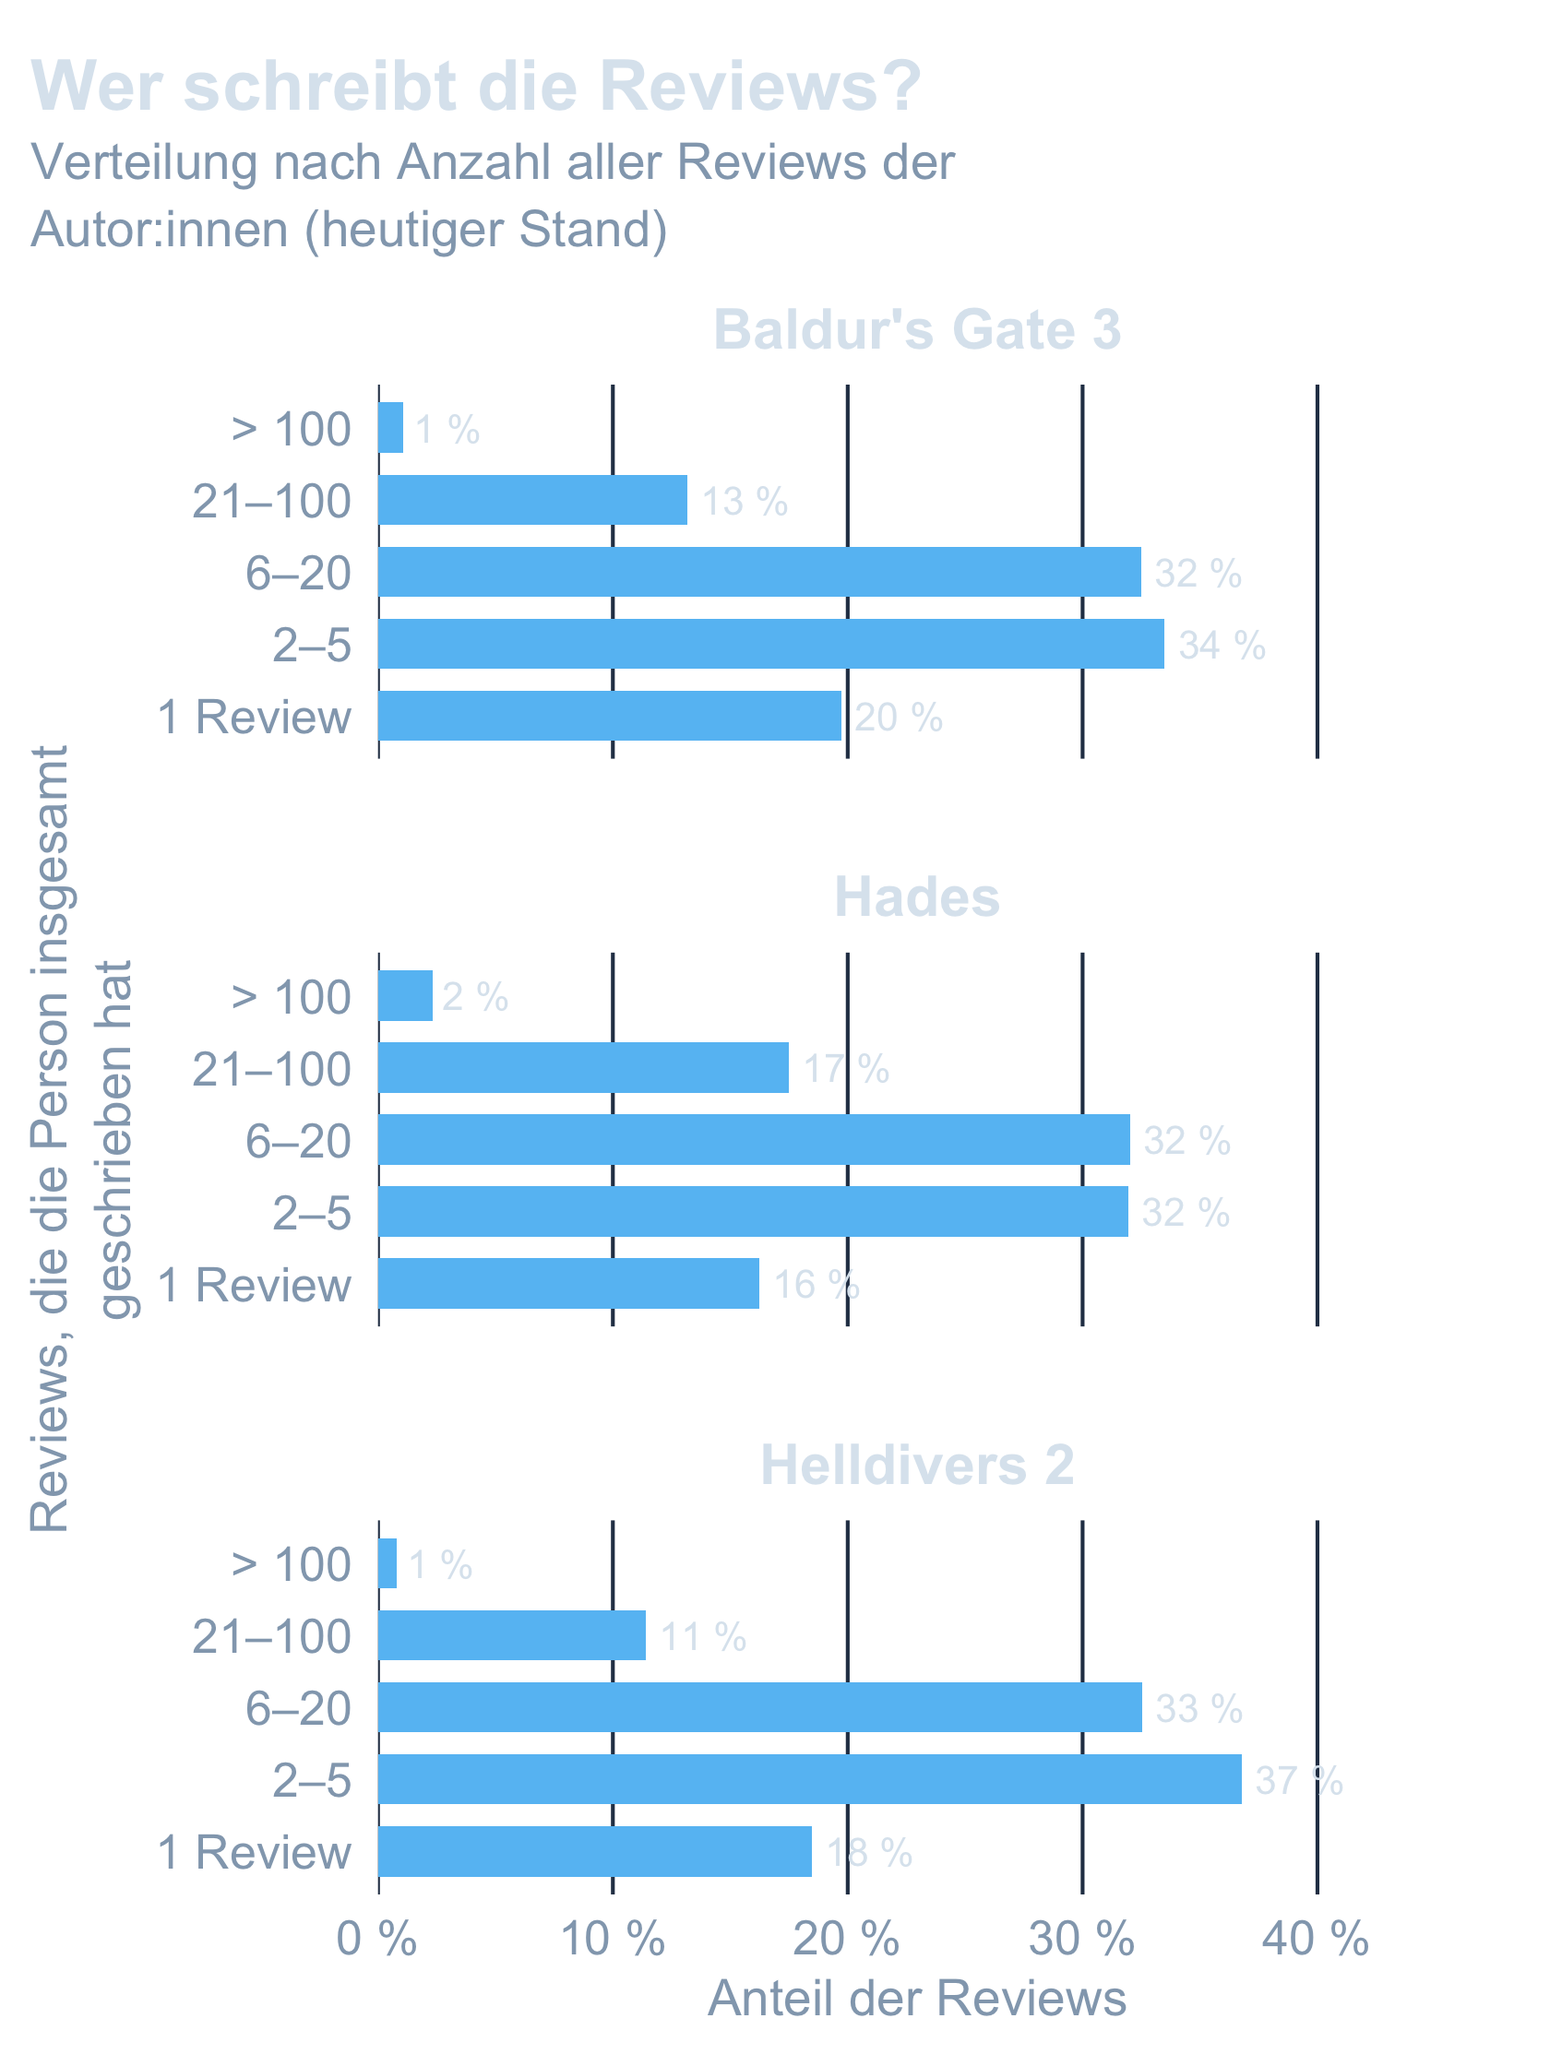
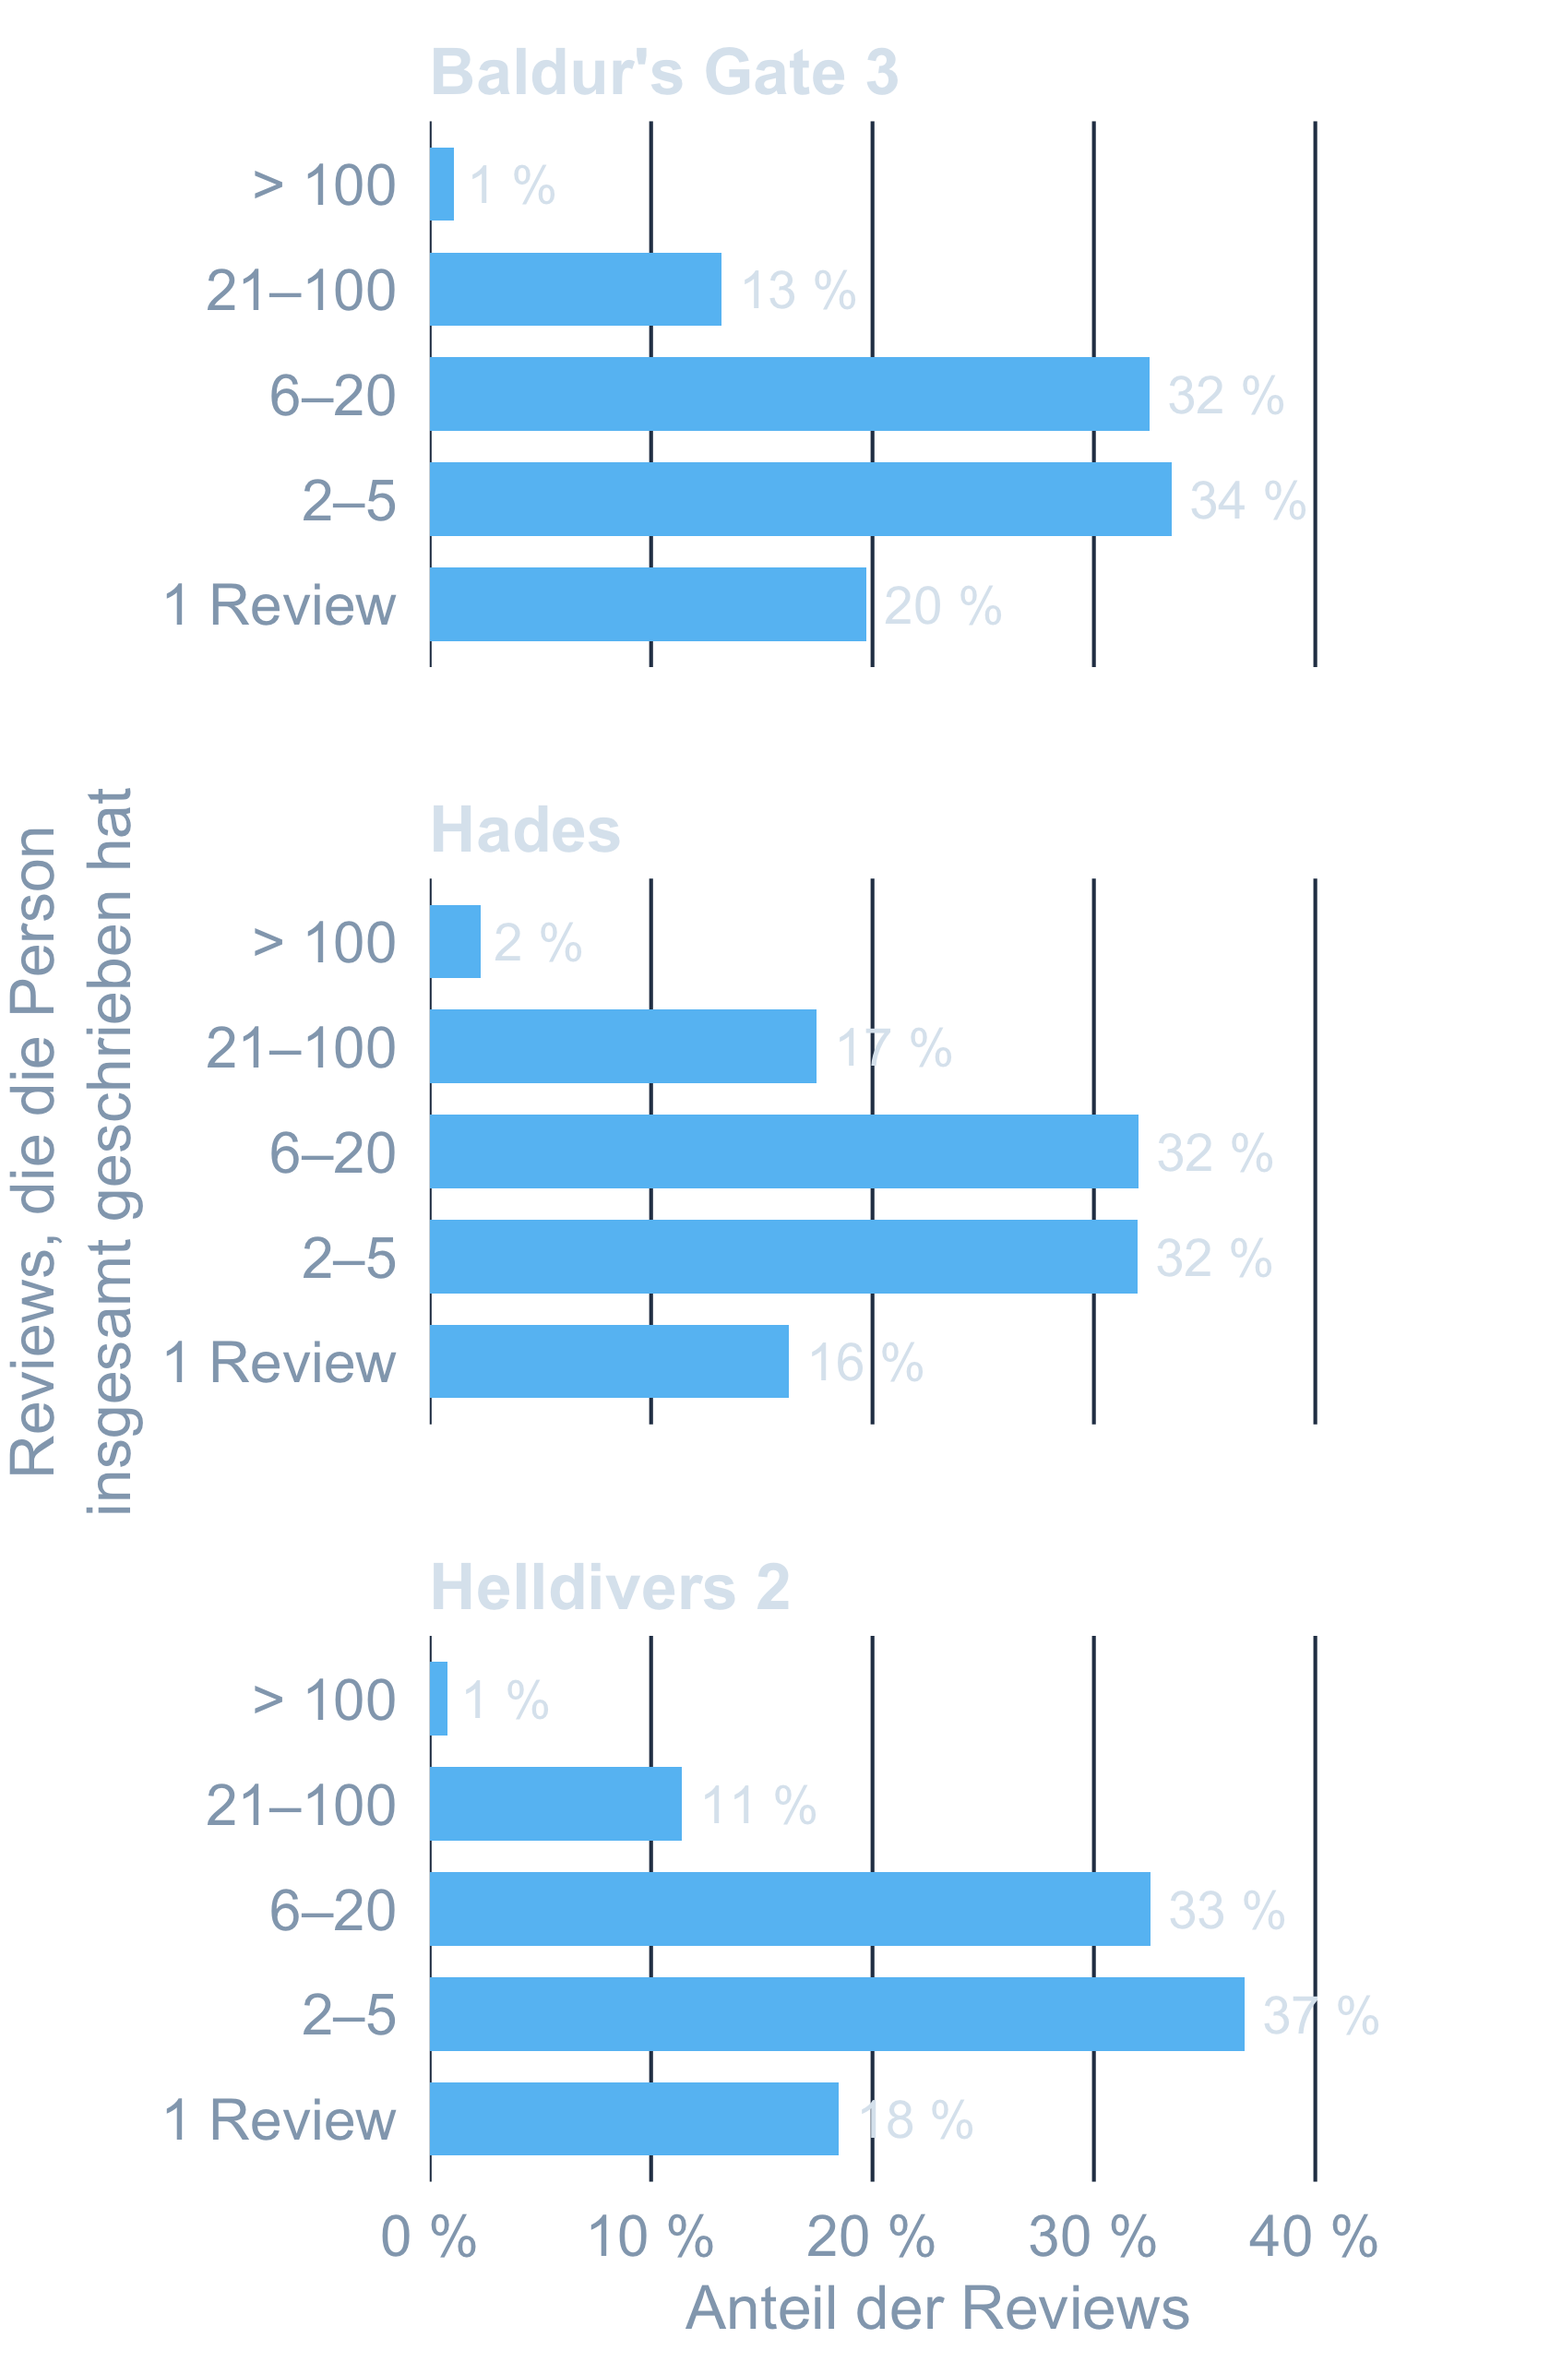
Handy: lineares Layout statt Scrollytelling, lesbare Grafiken
- js/mobile-linear.html setzt unter 768 px jede Grafik vor ihren ersten Absatz;
  Text als Fließtext, keine fest stehende Grafik und keine Leerräume mehr
- Handy-Grafiken: Titel/Untertitel/Quelle als HTML, Schrift 14 statt 11 pt,
  eigene Layouts für Kaufweg, Sprachen, Simulation und Borderlands-Legende
- Datentabelle am Handy als Block pro Spiel
- Desktop-Grafiken unverändert (pixelgleich geprüft)

diff --git a/styles/steam.scss b/styles/steam.scss
@@ -265,79 +265,79 @@ main#quarto-document-content { margin-bottom: 0; }
 a:focus-visible { outline: 2px solid $srb-accent; outline-offset: 2px; }
 
 // ---------- Handy & kleine Tablets (< 768 px) ----------
-// Closeread legt dort Text über die Grafik. Stattdessen: Grafik fest in den
-// oberen 58 % des Bildschirms, Text scrollt darunter und gleitet hinter die Grafik.
-//
-// Closeread aktiviert einen Schritt, wenn dessen .trigger die Bildschirmmitte
-// erreicht. Mit 38svh Abstand oberhalb der Karte (und 0 unterhalb) wird eine
-// Karte aktiv, sobald ihre Oberkante bei ~88 % ist – die vorige Karte ist dann
-// schon hinter der Grafik verschwunden.
-$srb-mobile-graphic: 58dvh;
-$srb-mobile-gutter:  16px;   // ein Seitenrand für Karten, Überschriften und Fließtext
+// Kein Scrollytelling: js/mobile-linear.html setzt jede Grafik vor ihren ersten
+// Absatz und markiert das mit html.srb-linear. Grafik und Text stehen dann
+// untereinander in voller Breite, gelesen wird im eigenen Tempo.
+// Ohne JavaScript bleibt Closereads eigene Handy-Darstellung (Text über der Grafik).
+$srb-mobile-gutter: 16px;   // ein Seitenrand für Text, Überschriften und Grafiken
+
+html.srb-linear .cr-section {
+  display: block;                   // statt Closereads Raster aus Text- und Grafikspalte
+  .sticky-col { display: none; }    // leer: alle Grafiken sind umgezogen
+
+  .narrative-col {
+    max-width: none;
+    min-width: 0;
+    margin: 0;
+    padding: 0 $srb-mobile-gutter;
+    background: transparent;
+    font-size: 1.0625rem;
+  }
+  // Closereads Abstände fürs Scrollen (45svh je Karte) und die Karten-Optik entfallen
+  .narrative-col .trigger { padding: 0; }
+  .narrative-col .trigger .narrative {
+    padding: 0;
+    margin: 0 0 1.1em;
+    background: none;
+    border: 0;
+    border-radius: 0;
+    box-shadow: none;
+    backdrop-filter: none;
+    color: $srb-text;
+    line-height: 1.65;
+  }
+  // Grafiken immer sichtbar (Closeread blendet inaktive aus) und in voller Breite
+  .narrative-col .sticky {
+    opacity: 1 !important;
+    transform: none !important;
+    transition: none;
+    margin: 2rem 0 1.5rem;
+    figure, .quarto-figure { margin: 0; }
+    img { display: block; width: 100%; height: auto; max-height: none; border-radius: 0; }
+  }
+}
+
+// Titel, Untertitel und Quellenhinweis der Handy-Grafiken (HTML statt im Bild, R/mobile.R)
+.fig-head { margin-bottom: .6rem; }
+.fig-title { margin: 0; color: #fff; font-weight: 700; font-size: 1.05rem; line-height: 1.3; }
+.fig-sub { margin: .25rem 0 0; color: $srb-muted; font-size: .875rem; line-height: 1.4; }
+.fig-caption { margin: .35rem 0 0; color: $srb-muted; font-size: .78rem; text-align: right; }
+
+// Datentabelle als Blöcke (Handy-Fassung in index.qmd)
+.sample-cards {
+  display: grid;
+  gap: .6rem;
+  margin: 1rem 0 0;
+
+  .sample-card {
+    padding: .7rem .85rem;
+    border: 1px solid $srb-line;
+    border-radius: 8px;
+    background: rgba(255, 255, 255, .03);
+  }
+  dt { margin-bottom: .3rem; color: #fff; font-weight: 700; }
+  dd { margin: 0; font-size: .9rem; line-height: 1.45; }
+  dd + dd { margin-top: .45rem; }
+  .k {
+    display: block;
+    color: $srb-muted;
+    font-size: .7rem;
+    letter-spacing: .08em;
+    text-transform: uppercase;
+  }
+}
 
 @media (max-width: 767.98px) {
-  .cr-section.sidebar-left,
-  .cr-section.sidebar-right,
-  .cr-section.overlay-left,
-  .cr-section.overlay-center,
-  .cr-section.overlay-right {
-    grid-template-columns: 1fr !important;
-
-    .narrative-col {
-      grid-column: 1;
-      z-index: 1;
-      max-width: none;
-      min-width: 0;
-      margin-inline: 0;
-      padding-inline: $srb-mobile-gutter;
-      background: transparent;
-
-      .trigger {
-        padding-block: 38svh 0;
-        padding-inline: 0;
-      }
-      // Kein Polster nach der letzten Karte: Sonst bleibt die Grafik über leerem
-      // Raum stehen. So schiebt die letzte Karte die Grafik direkt aus dem Bild.
-      .trigger:last-child { padding-bottom: 1.5rem; }
-
-      .trigger .narrative {   // .trigger: schlägt Closereads padding: .3em .5em
-        background: $srb-bg-raised;
-        border: 1px solid $srb-line;
-        backdrop-filter: none;
-        padding: .85em 1em;
-        font-size: 1rem;
-        line-height: 1.55;
-        box-shadow: 0 -6px 24px rgba(0, 0, 0, .35);
-      }
-    }
-
-    .sticky-col {
-      grid-column: 1;
-      z-index: 2;              // über dem Text: Karten gleiten darunter
-      pointer-events: none;
-
-      .sticky-col-stack {
-        height: $srb-mobile-graphic;
-        background: $srb-bg;
-        border-bottom: 1px solid $srb-line;
-        pointer-events: auto;
-
-        .sticky {
-          width: 100%;
-          padding: 6px 8px 0;
-          img {
-            display: block;
-            max-height: calc(#{$srb-mobile-graphic} - 10px);
-            max-width: 100%;
-            width: auto;
-            margin: 0 auto;
-            border-radius: 0;
-          }
-        }
-      }
-    }
-  }
-
   .big-number {
     padding: 1rem;
     .value { font-size: clamp(3.5rem, 20vw, 6rem); }

diff --git a/js/mobile-linear.html b/js/mobile-linear.html
@@ -1,0 +1,37 @@
+<!-- Handy (< 768 px): Scrollytelling ausschalten und linear lesen.
+     Closeread legt alle Grafiken in eine eigene, fest stehende Spalte. Auf dem Handy
+     bleibt dann für den Text nur ein schmaler Streifen. Stattdessen wird jede Grafik
+     direkt vor die erste Textkarte gesetzt, die auf sie verweist (data-focus-on), und
+     steht dort in voller Breite. Die Darstellung regelt html.srb-linear in steam.scss.
+     Wird das Fenster breiter, wandert alles an den alten Platz zurück. -->
+<script>
+(function () {
+  var mq = window.matchMedia("(max-width: 767.98px)");
+  var moved = [];   // { el, parent, next } in der Reihenfolge des Verschiebens
+
+  function linearize() {
+    document.querySelectorAll(".cr-section").forEach(function (section) {
+      section.querySelectorAll(".sticky-col .sticky").forEach(function (sticky) {
+        var trigger = section.querySelector(
+          '.narrative-col .trigger[data-focus-on="' + sticky.id + '"]');
+        if (!trigger) return;
+        moved.push({ el: sticky, parent: sticky.parentNode, next: sticky.nextSibling });
+        trigger.parentNode.insertBefore(sticky, trigger);
+      });
+    });
+    document.documentElement.classList.add("srb-linear");
+  }
+
+  function restore() {
+    document.documentElement.classList.remove("srb-linear");
+    // rückwärts: so ist das jeweils nächste Geschwister schon wieder an seinem Platz
+    for (var i = moved.length - 1; i >= 0; i--) {
+      moved[i].parent.insertBefore(moved[i].el, moved[i].next);
+    }
+    moved = [];
+  }
+
+  if (mq.matches) linearize();
+  mq.addEventListener("change", function (e) { e.matches ? linearize() : restore(); });
+})();
+</script>
